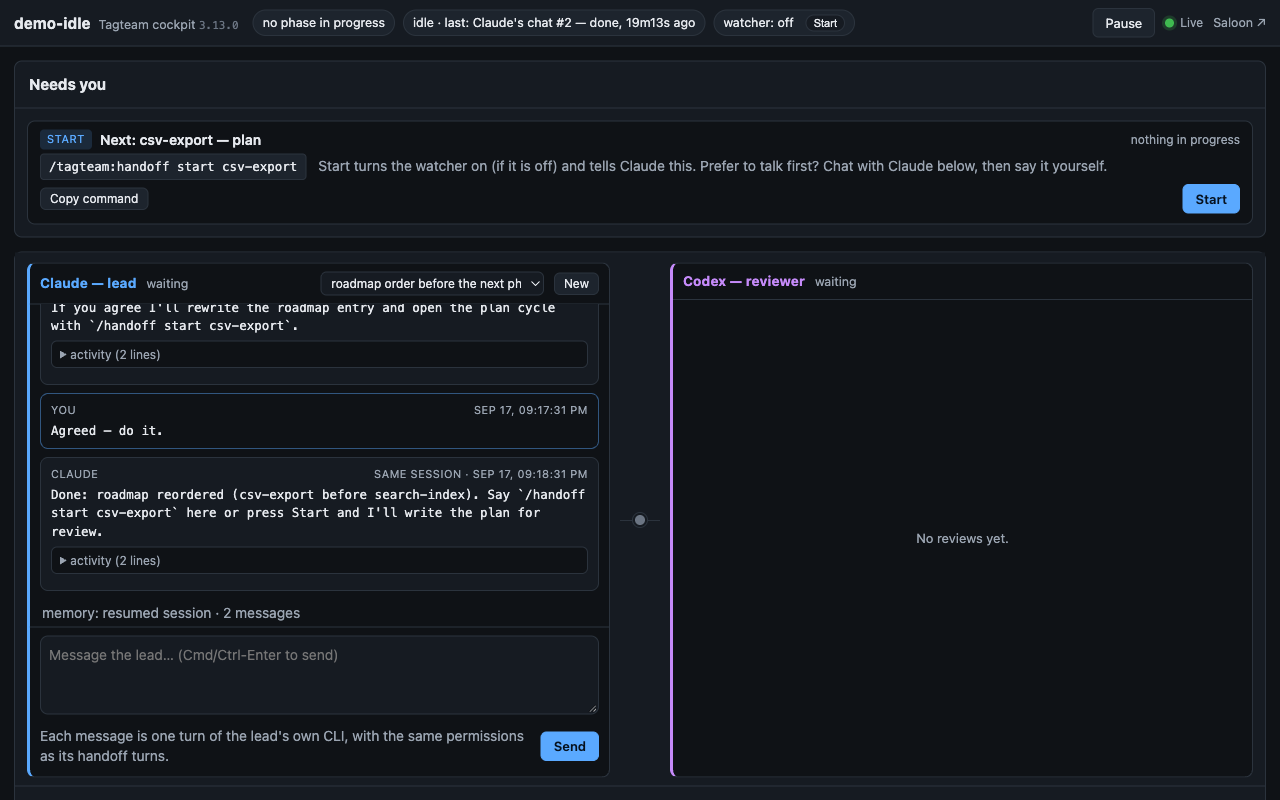
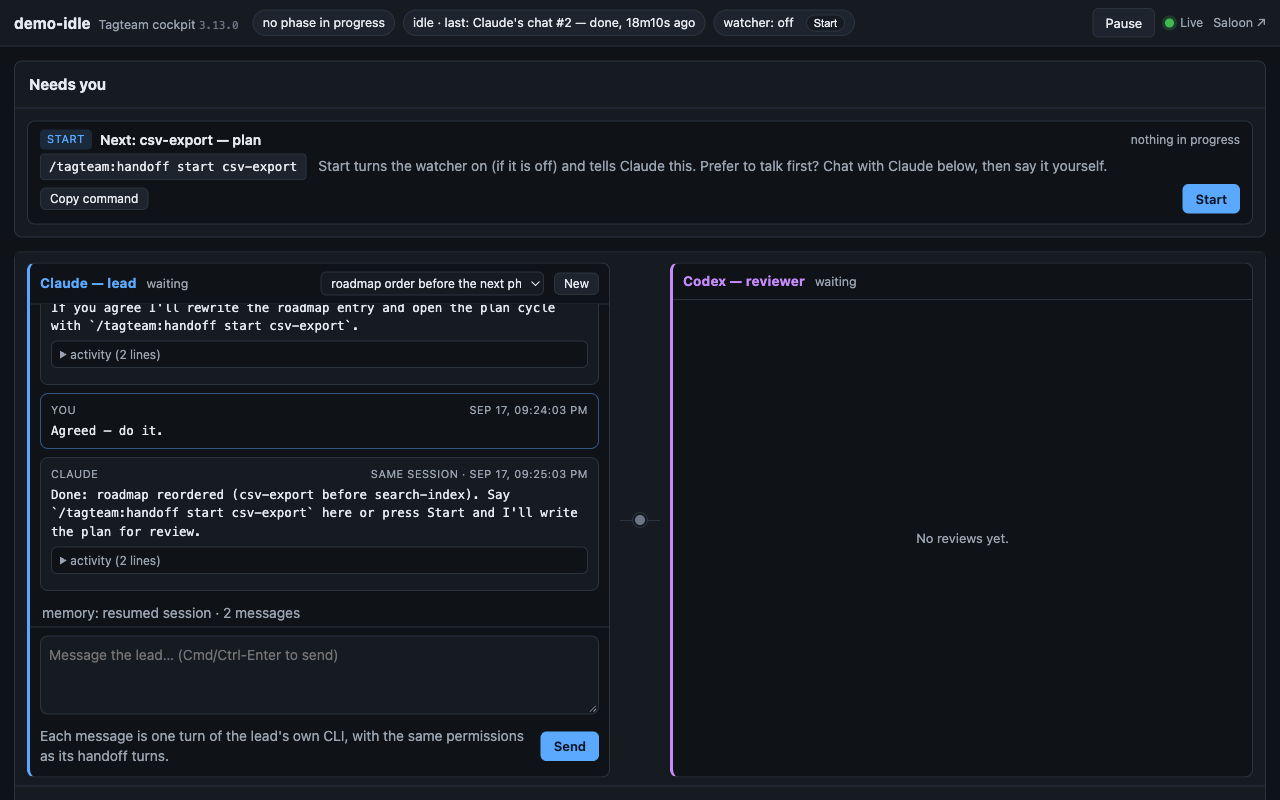
docs: showcase seed builds plugin-style demos; lead chat says /tagteam:handoff
The seeded lead conversation said `/handoff start csv-export` while the
Start card beside it said `/tagteam:handoff start csv-export`. The seed
no longer vendors .claude/skills/handoff/ into demo projects (headless
validation falls back to the packaged contract), so the Start card
derives /tagteam:handoff on its own, and the canned chat now matches.
cockpit-lead.png recaptured from an unmodified seed run.

Changed region(s): [[0.0312, 0.5625, 0.4688, 0.6875], [0.0938, 0.4062, 0.25, 0.4375], [0.375, 0.5, 0.4375, 0.5312]]

diff --git a/scripts/showcase_seed.py b/scripts/showcase_seed.py
@@ -173,9 +173,9 @@ CONVERSATION = [
      "Reasonable. The CSV export is smaller (one endpoint + a streaming writer) and unblocks "
      "three open tickets; the search index needs the schema change we deferred. I'd swap the "
      "order: export now, index next. If you agree I'll rewrite the roadmap entry and open the "
-     "plan cycle with `/handoff start csv-export`."),
+     "plan cycle with `/tagteam:handoff start csv-export`."),
     ("Agreed — do it.",
-     "Done: roadmap reordered (csv-export before search-index). Say `/handoff start csv-export` "
+     "Done: roadmap reordered (csv-export before search-index). Say `/tagteam:handoff start csv-export` "
      "here or press Start and I'll write the plan for review."),
 ]
 
@@ -286,13 +286,9 @@ def seed(root: Path) -> dict:
         (p / "docs" / "escalations").mkdir(parents=True)
         (p / ".tagteam").mkdir()
         _write_yaml(p)
-        # the handoff skill contract (as `tagteam setup` would install it) —
-        # HeadlessEngine.validate() requires it, so Start headless is offered
-        import shutil
-        from tagteam.setup import get_data_dir
-        skill = get_data_dir() / ".claude" / "skills" / "handoff" / "SKILL.md"
-        (p / ".claude" / "skills" / "handoff").mkdir(parents=True)
-        shutil.copy2(skill, p / ".claude" / "skills" / "handoff" / "SKILL.md")
+        # No vendored .claude/skills/handoff/: demos look like plugin installs
+        # (the Start card shows /tagteam:handoff), and headless validation
+        # falls back to the packaged contract (headless.resolve_skill_path).
         (p / "docs" / "roadmap.md").write_text(
             "# Roadmap\n\n### Phase 1: demo\n- **Status:** In progress\n", encoding="utf-8")
         projects[name] = p
